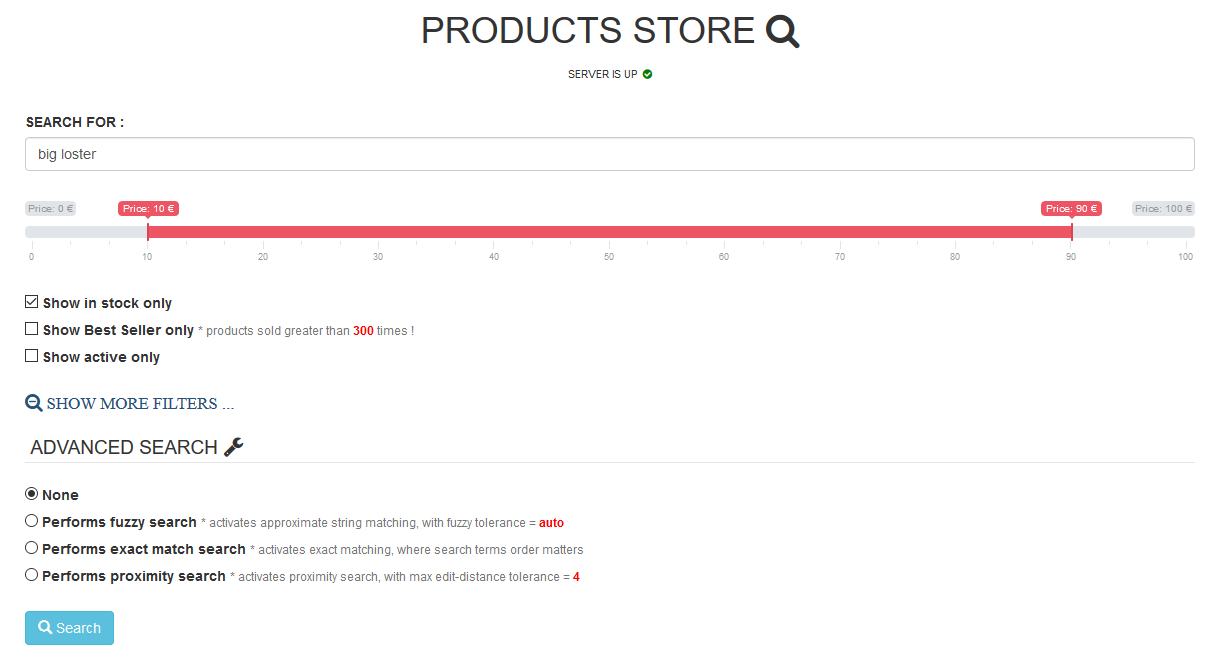
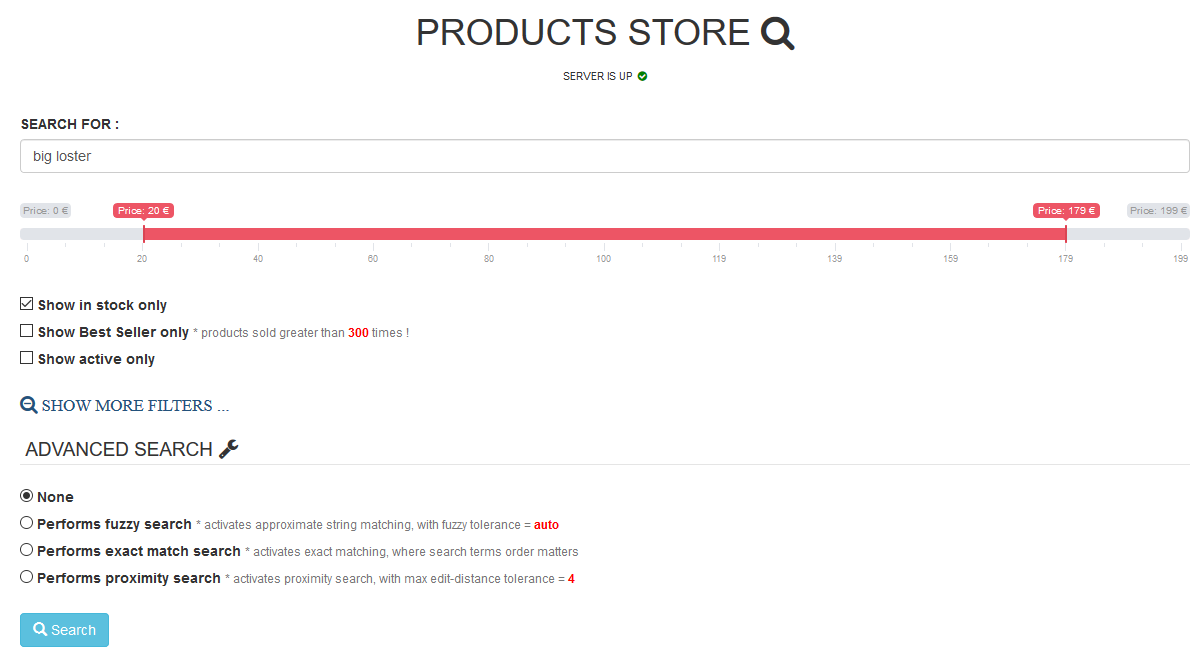
fix bug range prices slider

diff --git a/public/src/app/app.component.ts b/public/src/app/app.component.ts
@@ -73,6 +73,7 @@ export class AppComponent implements OnInit {
       .subscribe(
       (response: ProductServiceStatsConfig) => {
         this.priceStatsResponse = response;
+        // console.log('=>', response.stats.aggregations);
         this.updateSliderConfig(response.stats.aggregations.agg_stats_price.max);
       });
   }
@@ -99,7 +100,8 @@ export class AppComponent implements OnInit {
   }
 
   updateSliderConfig(allProductMaxPrice: number) {
-    this.sliderMaxPrice = allProductMaxPrice < 100 ? allProductMaxPrice : 100;
+    console.log('allProductMaxPrice', allProductMaxPrice);
+    this.sliderMaxPrice = allProductMaxPrice < 100 ? 100 : allProductMaxPrice;
     this.sliderToPrice = this.sliderMaxPrice * 0.9;
     this.sliderFromPrice = this.sliderMaxPrice * 0.1;
   }

diff --git a/README.md b/README.md
@@ -51,11 +51,11 @@ npm start
 5.3. Launch web client on a browser using url:\
 http://localhost:4200/
 
-Green ligh means server is up.
+Green light means server is up.
 
 ![alt capture3](https://github.com/danmgs/Elasticsearch-Nodejs.Quickstart/blob/master/public/img/screenshot3.PNG)
 
-Red ligh means server is down.\
+Red light means server is down.\
 Reason is elasticsearch cluster down and need to be started. Check step **5.1**.
 
 ![alt capture4](https://github.com/danmgs/Elasticsearch-Nodejs.Quickstart/blob/master/public/img/screenshot4.PNG)
